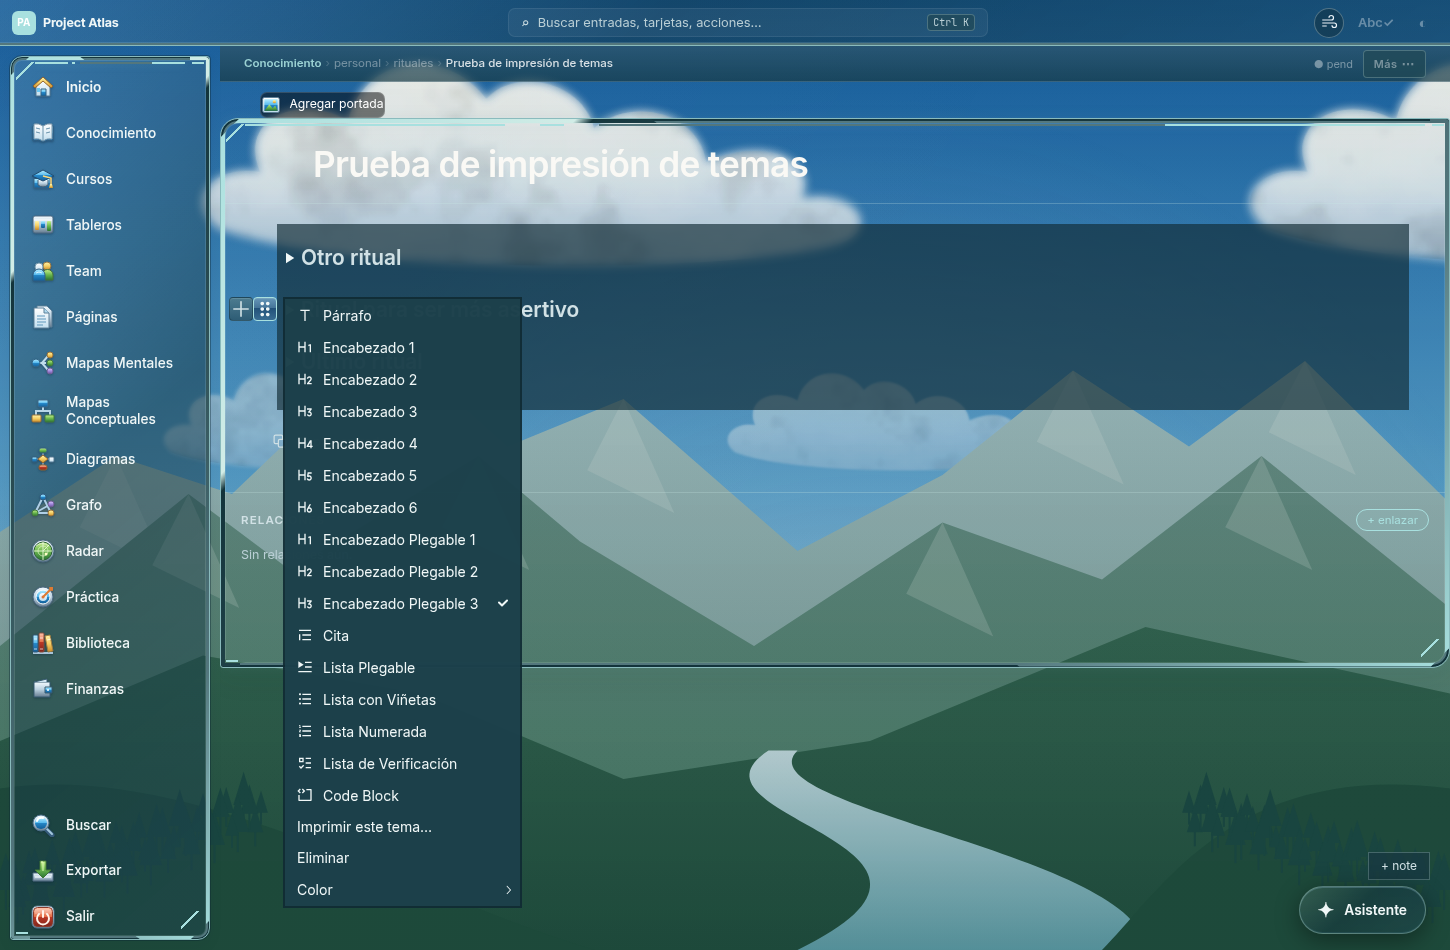
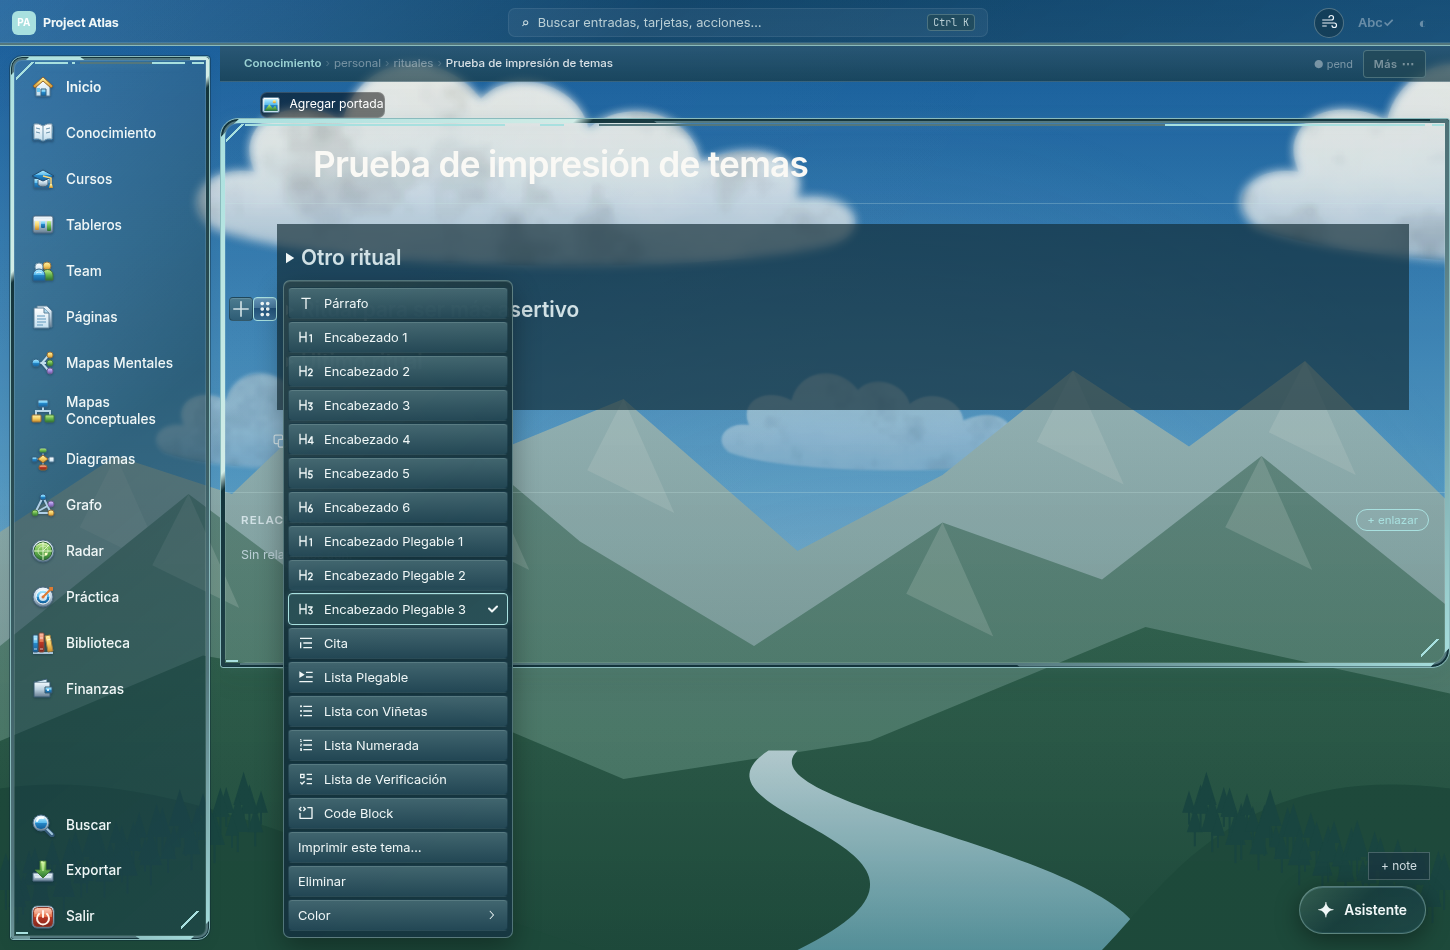
Restore Aero styling on portaled block menu controls

diff --git a/knowledge_base/static/themes.css b/knowledge_base/static/themes.css
@@ -1102,3 +1102,21 @@
 [data-style="aero"] #sidebar .course-list-item:focus-visible > .course-list-row { outline:2px solid var(--accent); outline-offset:2px; }
 [data-style="aero"] #sidebar :is(.tree-category-header,.tree-topic-header) .arrow { display:inline-flex !important; }
 [data-style="aero"] #sidebar :is(.tree-category-header,.tree-topic-header) > span:not(.arrow) { min-width:0; overflow-wrap:anywhere; line-height:1.35; }
+
+/* Portaled block menus retain the same Aero controls as the editor side menu. */
+[data-style="aero"] .atlas-editor-menu-layer .bn-drag-handle-menu {
+ background:var(--aero-glass),var(--bg-overlay) !important;
+ border:1px solid var(--aero-frame); border-radius:7px; padding:4px;
+ box-shadow:0 10px 28px #0005,inset 0 1px 0 var(--aero-inset);
+}
+[data-style="aero"] .atlas-editor-menu-layer .bn-drag-handle-menu :is(.bn-menu-item,.mantine-Menu-item) {
+ min-height:32px; margin:2px 0; padding:6px 9px;
+ color:var(--text) !important; background:var(--aero-button);
+ border:1px solid var(--aero-edge); border-radius:4px;
+ box-shadow:inset 0 1px 0 var(--aero-inset); font-size:.8rem;
+}
+[data-style="aero"] .atlas-editor-menu-layer .bn-drag-handle-menu :is(.bn-menu-item,.mantine-Menu-item):is(:hover,:focus-visible,[data-hovered],.bn-drag-handle-type-active) {
+ background:var(--aero-selection); border-color:var(--accent);
+ box-shadow:inset 0 1px 0 var(--aero-inset),0 0 6px var(--accent-dim);
+}
+[data-style="aero"] .atlas-editor-menu-layer :is(.bn-menu-item,.mantine-Menu-item):focus-visible {outline:2px solid var(--accent);outline-offset:-2px;}

diff --git a/knowledge_base/app.py b/knowledge_base/app.py
@@ -1045,7 +1045,7 @@ _STATIC_DIR = _os.path.join(_os.path.dirname(__file__), 'static')
 def _build_id():
     h = lambda f: _file_hash(_os.path.join(_STATIC_DIR, f))
     return "-".join(h(f) for f in (
-        'style.css', 'app.js', 'kanban.css', 'kanban.js',
+        'style.css', 'themes.css', 'app.js', 'kanban.css', 'kanban.js',
         'blocknote/editor.bundle.js', 'pygments.css',
         'conceptmap.css', 'conceptmap.js', 'conceptmap-explorer.css', 'conceptmap-explorer.js',
         'atlas-frames.css', 'atlas-frames.js', 'sentinel-sheen.css',

diff --git a/docs/SECTION_PRINTING.md b/docs/SECTION_PRINTING.md
@@ -24,6 +24,8 @@ El menú de bloques se monta en una capa fuera del marco decorativo, conservando
 el contexto React del editor. Su posición sigue el botón y se limita al área
 visible debajo de la barra de navegación; se puede desplazar cuando falta altura.
 Los marcos y el colapso del editor ya no lo atraviesan ni lo recortan.
+La capa conserva los botones con relieve, los reflejos Aero, el indicador del
+tipo activo y el foco de teclado; todos siguen la paleta seleccionada.
 
 Validación local: 307 pruebas del servidor, pruebas del editor (incluida selección
 de temas anidados y límites de encabezados) y build de producción. Chromium
